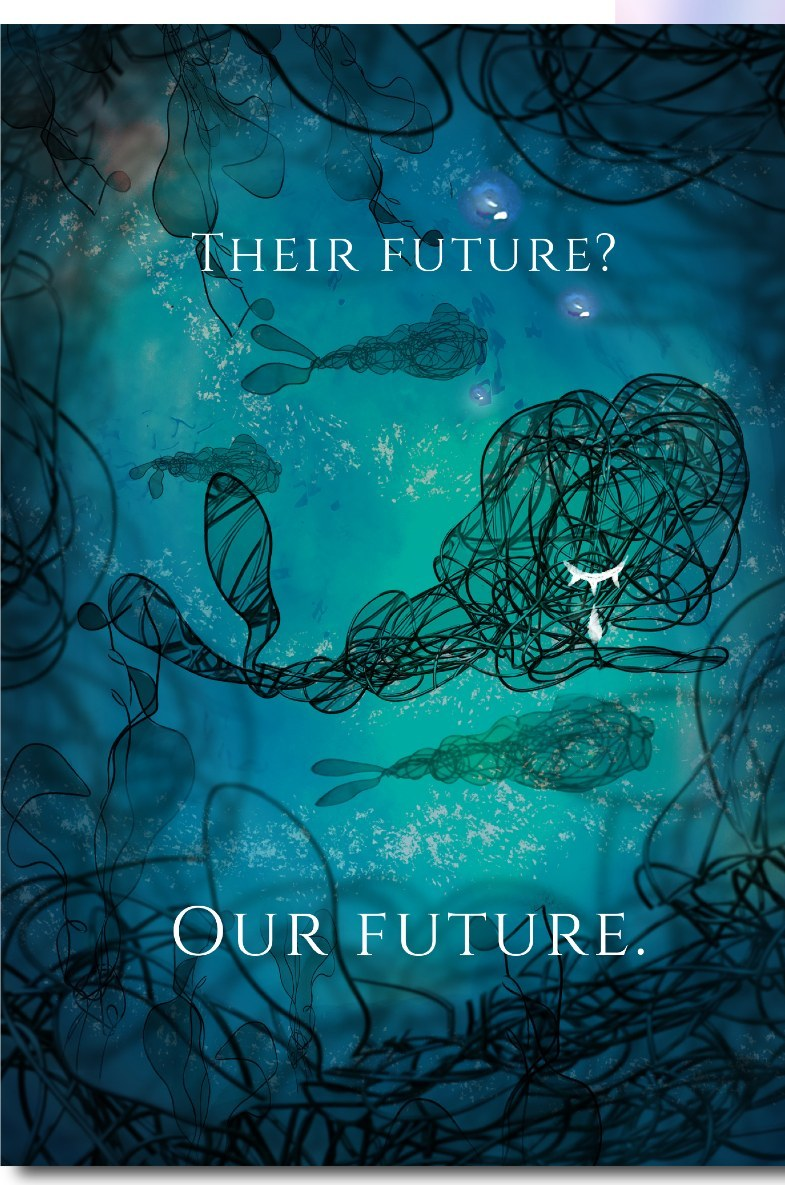
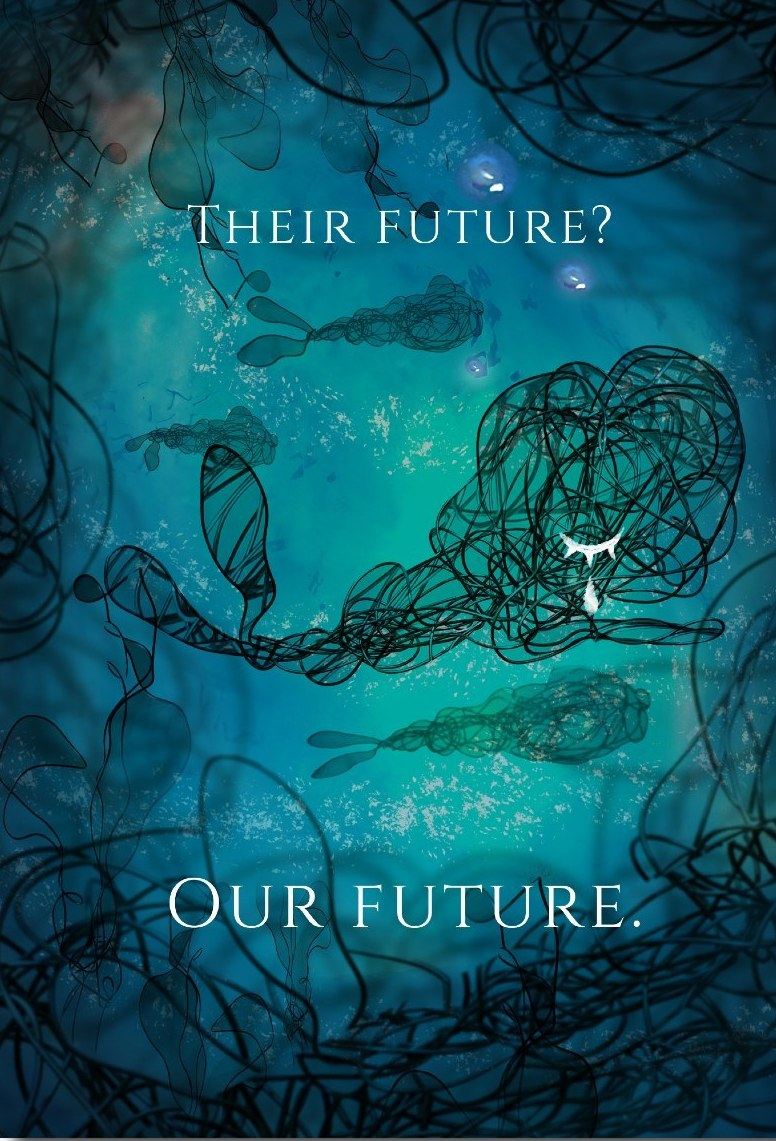
Split award piece from OCEAN is our heart poster; clean award poster edges
Claude-Session: https://claude.ai/code/session_01GPGckZEsofTcxj1jt2CKdh

diff --git a/src/data/works.ts b/src/data/works.ts
@@ -378,12 +378,21 @@ export const works: Work[] = [
     year: '2021',
     title: '海洋藝術節｜Special Award',
     category: 'illustration',
-    summary: '2021 年 IOAF 國際海洋藝術節（Art Star Awards）的 Special Award 作品。一張把海洋畫成心臟，寫著 OCEAN is our heart.；另一張是青綠色的海底，有線稿畫的人形，寫著 THEIR FUTURE? OUR FUTURE.，另附證書。',
+    summary: '2021 年 IOAF 國際海洋藝術節（Art Star Awards）的 Special Award 得獎作品。青綠色的海底有用線稿畫成的人形，眼角掛著一滴淚，上下兩行字是 THEIR FUTURE? 與 OUR FUTURE.，後面附上證書。',
     tags: ['Award', 'Poster', 'Ocean'],
     images: [
-      { src: '/works/ocean-heart.jpg', alt: '藍色海報：以海浪與魚群畫成的心臟，下方寫著 OCEAN is our heart.', w: 990, h: 1400 },
-      { src: '/works/ocean-future.jpg', alt: '深青色海報：海中的線稿人形與魚，寫著 THEIR FUTURE? OUR FUTURE.', w: 785, h: 1185 },
+      { src: '/works/ocean-future.jpg', alt: '深青色海報：海中的線稿人形與魚，寫著 THEIR FUTURE? OUR FUTURE.', w: 776, h: 1141 },
       { src: '/works/ioaf-cert.jpg', alt: 'IOAF 2021 國際海洋藝術節 Special Award 證書', w: 919, h: 1300 },
+    ],
+  },
+  {
+    slug: 'ocean-heart',
+    title: 'OCEAN is our heart.｜海洋心臟海報',
+    category: 'illustration',
+    summary: '藍色海報。心臟的輪廓由海浪和魚群組成，紅與深藍的色塊疊在淺藍的水面上，左下角寫著 OCEAN is our heart.',
+    tags: ['Poster', 'Ocean', 'Illustration'],
+    images: [
+      { src: '/works/ocean-heart.jpg', alt: '藍色海報：以海浪與魚群畫成的心臟，下方寫著 OCEAN is our heart.', w: 990, h: 1400 },
     ],
   },
   {
